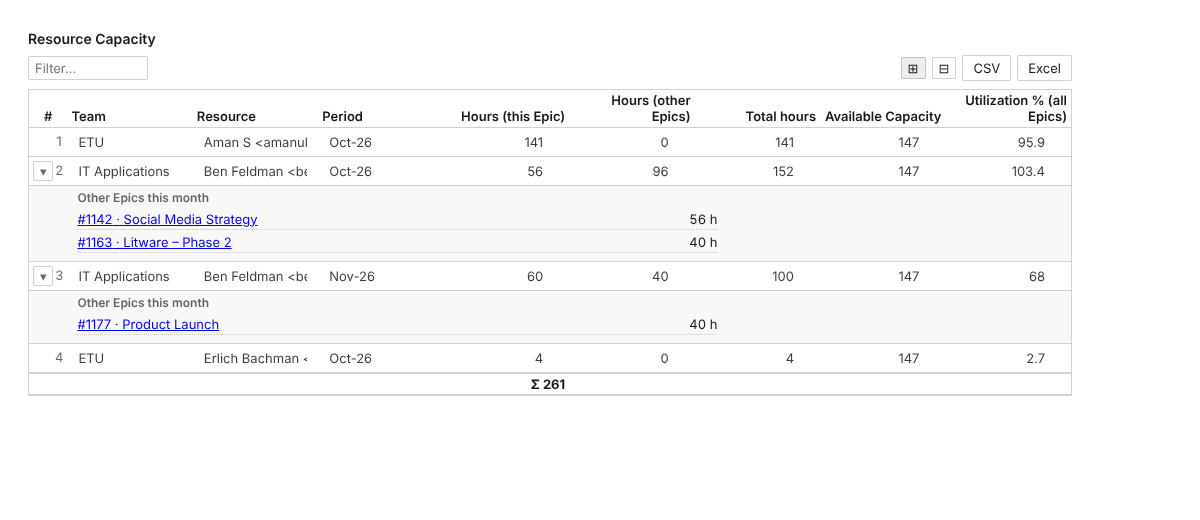
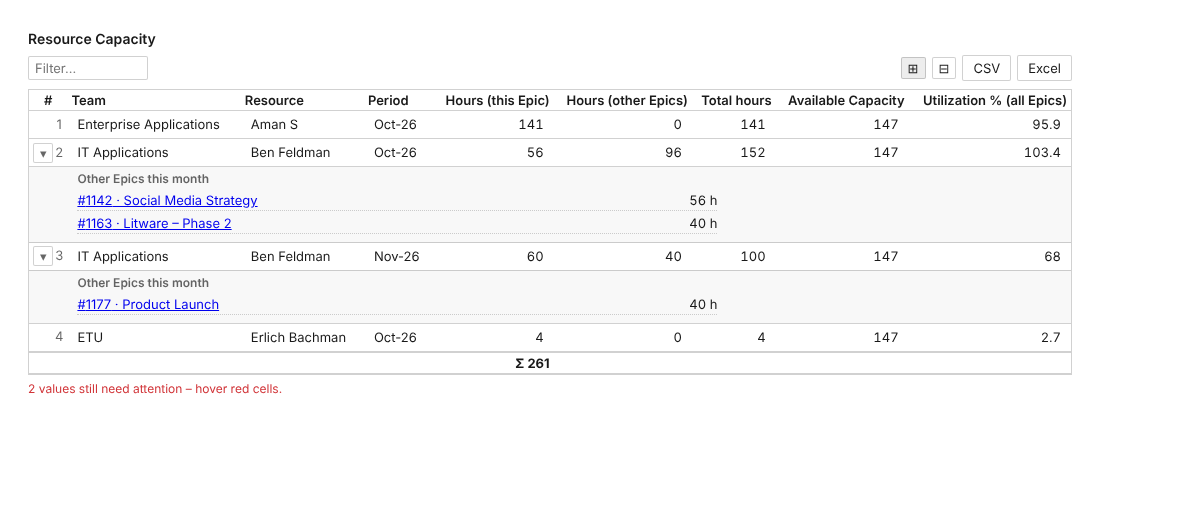
Resource Capacity: plain-text read-only cells, aligned with headings
Claude-Session: https://claude.ai/code/session_01376dPYr6LN3XTveSHPVJQG

diff --git a/src/grid/Grid.tsx b/src/grid/Grid.tsx
@@ -154,6 +154,12 @@ export function Grid(p: GridProps) {
     const dis = readOnly || isEnd || (!!c.teamFrom && !c.teamFrom.allowOverride) || rowLocked(r) || (reviewCols.has(c.id) && (c.id !== rv?.reasonColumn || (!!rv?.secure && stateOf(r, rv) !== "pending"))) || !!c.formula || !!c.lookup || (!!c.derive && !c.derive.adjustable) || !!c.capacity || !!c.teamOf || !!c.others || c.type === "calculated";
     const cls = errKey(r._id, c.id) ? "cell err-cell" : "cell";
     const title = errKey(r._id, c.id) ?? p.cellInfo?.(r, c) ?? (isEnd && typeof r._schedNote === "string" ? r._schedNote : isEnd ? "Calculated from the start date, effort, allocation and the person's calendar" : undefined);
+    // automatic grids (e.g. Resource Capacity): read-only cells are shown as plain text, so nothing is cut off like in a disabled input
+    if (p.autoRows && dis && c.type !== "boolean") {
+      const raw = c.displayFormat ? formatDateText(v, c.displayFormat) : v === null || v === undefined ? "" : String(v);
+      const text = c.type === "identity" ? raw.replace(/\s*<[^>]*>\s*$/, "").trim() || raw : raw;
+      return <span className={"ro" + (c.type === "calculated" ? " calc" : "")} title={title ?? (c.type === "calculated" ? c.formula : raw) ?? undefined}>{text === "" ? <span className="muted">{c.capacity ? "not registered" : "–"}</span> : text}</span>;
+    }
     switch (c.type) {
       case "calculated":
         return <input className="cell calc" type="text" disabled readOnly value={v === null || v === undefined ? "" : String(v)} title={c.formula} />;

diff --git a/src/grid/grid.css b/src/grid/grid.css
@@ -53,3 +53,8 @@
 .wig .dl { display: flex; flex-direction: column; gap: 2px; max-width: 640px; }
 .wig .dh { font-size: 12px; color: var(--fg2, #666); font-weight: 600; margin-bottom: 2px; }
 .wig .dr { display: flex; justify-content: space-between; gap: 16px; padding: 2px 0; border-bottom: 1px dotted var(--line, #ddd); } .wig .dr .dv { font-variant-numeric: tabular-nums; }
+
+/* automatic (derived) grids: plain-text cells, aligned with their headings */
+.wig .ro { display: block; padding: 3px 6px; overflow-wrap: anywhere; line-height: 1.3; } .wig td.num .ro { text-align: right; font-variant-numeric: tabular-nums; }
+.wig td.status .ro { font-weight: 600; } .wig .ro.calc { font-weight: 600; }
+.wig td:has(> .ro) { white-space: normal; }

diff --git a/CHANGELOG.md b/CHANGELOG.md
@@ -11,6 +11,7 @@
 
 ## 2.2.0 (next)
 **Resource Capacity**
+- Automatic grids such as Resource Capacity show read-only cells as plain text (nothing cut off, numbers right-aligned under their headings, people shown by name with the full address on hover).
 - Rows with hours on other Epics get a ▸ expander: it opens the list of those Epics (id, title, hours that month) right under the row, with Expand all / Collapse all; the filter also finds Epics by title and a click opens the Epic. Read-only; exports stay flat rows.
 
 **Reliability**
